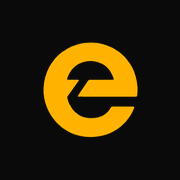
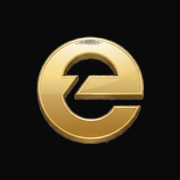
Adopt the embossed emblem at hero sizes, flat mark below
The brand sheet supplies the detailed emblem at usable resolution along with a
charcoal render for light grounds, and states the rule directly: bevel turns to
noise at the smallest sizes. The product now follows that split rather than
picking one treatment for everything.

Embossed art is used where the brand is presented and always rendered large —
the loading, home and paywall heroes, the home-screen icon, and the share card.
The flat mark stays everywhere it has to survive being small: the 12-24px inline
spots and the favicon.

Both marks were recovered from the sheet rather than from the earlier
screenshot. The transparency panel bakes its checkerboard into the image, so the
gold emblem was separated by saturation — the checker and its drop shadow are
neutral, the emblem is warm — which keeps the bevel's own specular highlights
intact. That yields a 436px master against the 93px crop it replaces. The
charcoal version was keyed off its white ground with a luminance ramp for the
rim.

Embossed art cannot be recoloured, since its lighting is baked into the pixels;
inverting gold produces blue. The charcoal render is therefore wired as a real
light-theme counterpart, swapped by a CSS rule on the theme class rather than by
a filter.

Changed region(s): [[0.1944, 0.1944, 0.8056, 0.8056]]

diff --git a/index.html b/index.html
@@ -505,6 +505,11 @@ body.light .topbar{background:rgba(244,241,235,0.94)}
 /* Mark over wordmark — the lockup, used anywhere the brand is presented rather
    than just referenced. The word is live text (DM Sans is already loaded), so it
    never softens on a retina screen and recolours with the theme. */
+/* Embossed art has its lighting baked in, so it cannot be recoloured — the
+   charcoal render from the brand sheet is the light-theme counterpart. */
+.emb-light{display:none}
+body.light .emb-dark{display:none}
+body.light .emb-light{display:block}
 .brand-lockup{display:flex;flex-direction:column;align-items:center;gap:9px}
 .brand-lockup img{object-fit:contain;display:block}
 .brand-lockup-word{font-weight:300;color:var(--white);letter-spacing:.5px;line-height:1}
@@ -725,7 +730,7 @@ body.light .topbar{background:rgba(244,241,235,0.94)}
 <div id="screen-loading">
 
   <div class="brand-lockup" id="loading-center-icon" style="margin-bottom:22px">
-    <img id="loading-logo-mark" src="assets/logo-flat.png" alt="Even" class="brand-mark">
+    <img id="loading-logo-mark" src="assets/logo-emb.png" alt="Even" class="brand-mark emb-dark"><img src="assets/logo-emb-light.png" alt="" class="brand-mark emb-light">
     <div class="brand-lockup-word" style="font-size:21px">even<b>.</b></div>
   </div>
 
@@ -760,7 +765,7 @@ body.light .topbar{background:rgba(244,241,235,0.94)}
 <div id="screen-paywall" class="screen" style="min-height:100vh;flex-direction:column;align-items:center;justify-content:center;padding:32px 20px;background:var(--bg)">
   <div style="width:100%;max-width:400px;text-align:center">
     <div class="brand-lockup" style="margin-bottom:14px">
-      <img src="assets/logo-flat.png" width="46" height="46" alt="Even">
+      <img src="assets/logo-emb.png" class="emb-dark " alt="Even" style="width:46px;height:46px;object-fit:contain;display:block"><img src="assets/logo-emb-light.png" class="emb-light " alt="" style="width:46px;height:46px;object-fit:contain">
       <div class="brand-lockup-word" style="font-size:20px">even<b>.</b></div>
     </div>
     <h2 style="color:var(--white);margin-bottom:6px;font-size:22px">You've used your 3 free estimates</h2>
@@ -887,7 +892,7 @@ body.light .topbar{background:rgba(244,241,235,0.94)}
       <!-- Hero -->
       <div style="text-align:center;padding:16px 0 24px">
         <div class="brand-lockup" style="margin-bottom:10px">
-          <img src="assets/logo-flat.png" alt="Even" style="height:62px;width:62px">
+          <img src="assets/logo-emb.png" class="emb-dark " alt="Even" style="width:62px;height:62px;object-fit:contain;display:block"><img src="assets/logo-emb-light.png" class="emb-light " alt="" style="width:62px;height:62px;object-fit:contain">
           <div class="brand-lockup-word" style="font-size:25px">even<b>.</b></div>
         </div>
         <div style="font-size:12px;color:var(--muted);margin-top:4px;line-height:1.5" data-en="Scope in. Winning bid out.<br>Built for contractors." data-es="Alcance adentro. Oferta ganadora afuera.<br>Hecho para contratistas.">Scope in. Winning bid out.<br>Built for contractors.</div>
